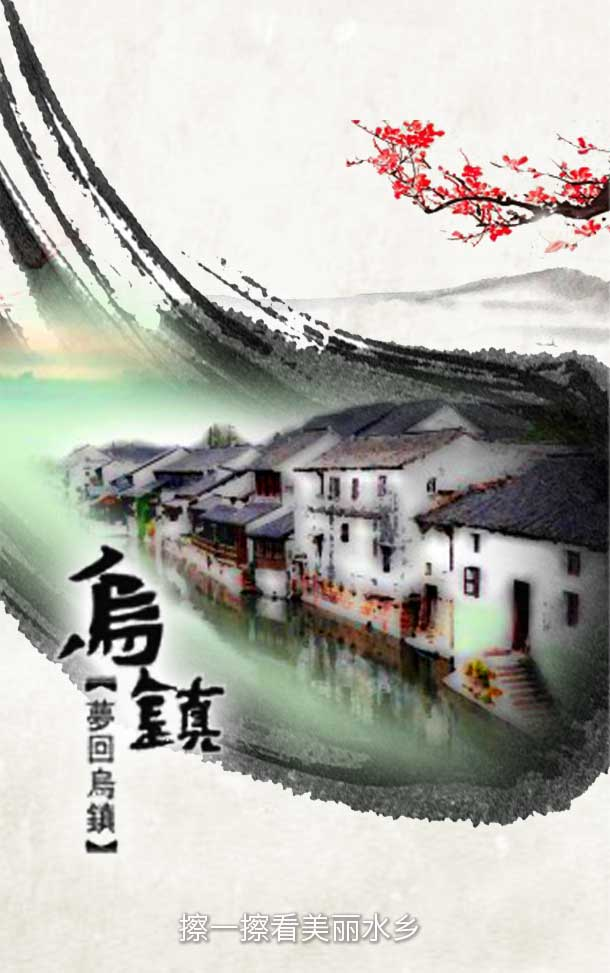
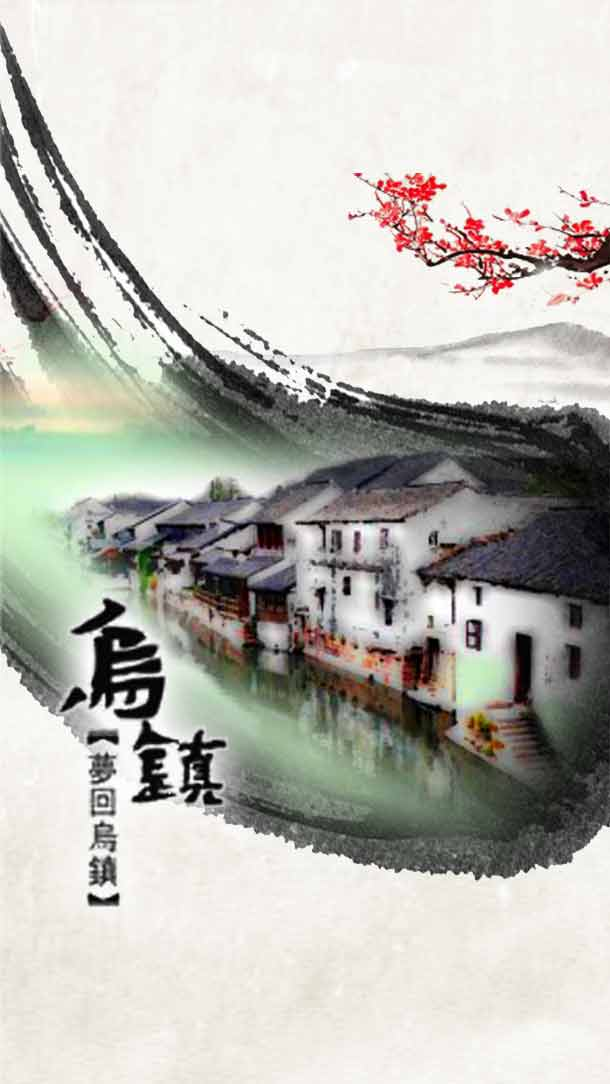
add hint
Use CSS3 infinite animation; fix issue; update the stay cover;

diff --git a/css/style.css b/css/style.css
@@ -1,1 +1,1 @@
-body,ul{margin:0;padding:0}body{background:#f6f6f6}hr{border-color:#ccc;color:#ccc}.container{width:95%;margin:auto}.video-thumb{margin-bottom:15px;width:100%;min-height:140px;background:seagreen;position:relative;padding:0}.video-thumb .ui-icon-video{position:absolute;left:50%;top:50px;margin:10px -15px}.flat-card-list .flat-card{background:#fff;-webkit-box-shadow:0 0 8px #999;-moz-box-shadow:0 0 8px #999;box-shadow:0 0 8px #999;padding:15px;margin-bottom:15px}.flat-card-list .flat-card .name{margin:0 0 5px;color:#666}.flat-card-list .flat-card .des{font-size:12px;color:#999;margin:5px 0}.thumb-list .thumb-item{padding:5px 0;margin:0;clear:both}.thumb-list .thumb-item .thumbnail{width:20%;float:left}.thumb-list .thumb-item .info{padding:5px 2%;float:left;width:50%}.thumb-list .thumb-item .info .title{color:deepskyblue;font-size:14px;margin:0 0 3px}.thumb-list .thumb-item .info .location,.thumb-list .thumb-item .info .comment,.thumb-list .thumb-item .info .des{color:#999;font-size:10px;margin:2px 0}.thumb-list .thumb-item .price{float:left;width:23%;text-align:right}.thumb-list .thumb-item .price .number{font-size:30px;color:darkred}.thumb-list .thumb-item .price .appendix{font-size:10px;color:gray}.thumb-list .thumb-item .price .addon{font-size:10px;color:forestgreen}.nav-dot{opacity:0;-webkit-transition:all 1s;-moz-transition:all 1s;-o-transition:all 1s;-ms-transition:all 1s;transition:all 1s}.nav-dot.active{opacity:1;-webkit-transform:scale(1);-moz-transform:scale(1);-ms-transform:scale(1);-o-transform:scale(1);transform:scale(1)}.nav-center{opacity:0;-webkit-transition:all 1s;-moz-transition:all 1s;-o-transition:all 1s;-ms-transition:all 1s;transition:all 1s;-webkit-transform:scale(1.2);-moz-transform:scale(1.2);-ms-transform:scale(1.2);-o-transform:scale(1.2);transform:scale(1.2)}.nav-center.active{opacity:1;-webkit-transform:scale(1);-moz-transform:scale(1);-ms-transform:scale(1);-o-transform:scale(1);transform:scale(1)}.place{margin-bottom:12%}.buy-button-div{float:right;margin-right:10%;margin-top:-4%;margin-bottom:4%}.buy-button,.buy-button:hover,.buy-button:visited,.buy-button:active{font-family:"华文仿宋","宋体",serif;font-size:1em;color:white!important;font-weight:normal!important;background-color:black;width:200px;height:50px;padding:8px 30px;text-decoration:none;text-shadow:none;border-radius:25px;z-index:999}.buy-button:hover{cursor:pointer}.master,.master-img{background:#f6f6f6 center no-repeat;position:absolute;top:0;bottom:0;left:0;right:0;height:100%}.master-img{background-size:100% auto;display:none}.cover,.cover-static{position:absolute;top:0;right:0;left:0;bottom:0;background:0;background-size:100px 100px}.stay-nav-wrapper{position:absolute;bottom:0;left:0;right:0;height:110px;width:100%;margin-left:10px;clear:both}.stay-nav-wrapper .stay-nav{-webkit-transition:margin-top .5s;-moz-transition:margin-top .5s;-o-transition:margin-top .5s;-ms-transition:margin-top .5s;transition:margin-top .5s;margin-top:110px;float:left;width:25%;height:110px;display:block;background-size:400% auto!important;background-repeat:no-repeat!important}.stay-nav-wrapper .stay-nav.shown{margin-top:0}#toolBackTo{position:fixed;left:13%;bottom:20px;width:50px;height:75px;z-index:11}#toolBackTo a{display:block;width:50px;height:50px;text-align:center;background-color:#a4aab4;background-color:rgba(164,170,180,0.5);background-position:16px 19px;border-radius:2px}#toolBackTo .home-back{text-decoration:none;font-weight:normal;text-shadow:none;background-image:none;padding-top:4px;height:21px;color:white;letter-spacing:2px;margin-top:1px;text-align:center;position:absolute;top:50px}.taste-bubble-wrapper{position:absolute;top:0;left:0;right:0;bottom:0;width:100%;height:100%}.taste-bubble-wrapper .taste-bubble{opacity:0;display:block;color:#fff;background:red;padding:15px 5px;width:50px;height:30px;text-decoration:none;font-size:12px;line-height:34px;text-align:center;-webkit-border-radius:40px;-moz-border-radius:40px;border-radius:40px;-webkit-transition:all 1s;-moz-transition:all 1s;-o-transition:all 1s;-ms-transition:all 1s;transition:all 1s;-webkit-transform:scale(3.2);-moz-transform:scale(3.2);-ms-transform:scale(3.2);-o-transform:scale(3.2);transform:scale(3.2)}.taste-bubble-wrapper .taste-bubble.shown{opacity:1;-webkit-transform:scale(1);-moz-transform:scale(1);-ms-transform:scale(1);-o-transform:scale(1);transform:scale(1)}.taste-bubble-wrapper .taste-bubble.shown-bg{opacity:1;-webkit-transform:scale(1);-moz-transform:scale(1);-ms-transform:scale(1);-o-transform:scale(1);transform:scale(1)}.taste-bubble-wrapper .taste-bubble.shown-md{opacity:1;-webkit-transform:scale(0.8);-moz-transform:scale(0.8);-ms-transform:scale(0.8);-o-transform:scale(0.8);transform:scale(0.8)}.taste-bubble-wrapper .taste-bubble.shown-sm{opacity:1;-webkit-transform:scale(0.65);-moz-transform:scale(0.65);-ms-transform:scale(0.65);-o-transform:scale(0.65);transform:scale(0.65)}#item-list,#banner{padding:0;margin:0;width:100%;position:relative}#item-list .img-item{width:23.75%}
+body,ul{margin:0;padding:0}body{background:#f6f6f6}hr{border-color:#ccc;color:#ccc}.container{width:95%;margin:auto}.video-thumb{margin-bottom:15px;width:100%;min-height:140px;background:seagreen;position:relative;padding:0}.video-thumb .ui-icon-video{position:absolute;left:50%;top:50px;margin:10px -15px}.flat-card-list .flat-card{background:#fff;-webkit-box-shadow:0 0 8px #999;-moz-box-shadow:0 0 8px #999;box-shadow:0 0 8px #999;padding:15px;margin-bottom:15px}.flat-card-list .flat-card .name{margin:0 0 5px;color:#666}.flat-card-list .flat-card .des{font-size:12px;color:#999;margin:5px 0}.thumb-list .thumb-item{padding:5px 0;margin:0;clear:both}.thumb-list .thumb-item .thumbnail{width:20%;float:left}.thumb-list .thumb-item .info{padding:5px 2%;float:left;width:50%}.thumb-list .thumb-item .info .title{color:deepskyblue;font-size:14px;margin:0 0 3px}.thumb-list .thumb-item .info .location,.thumb-list .thumb-item .info .comment,.thumb-list .thumb-item .info .des{color:#999;font-size:10px;margin:2px 0}.thumb-list .thumb-item .price{float:left;width:23%;text-align:right}.thumb-list .thumb-item .price .number{font-size:30px;color:darkred}.thumb-list .thumb-item .price .appendix{font-size:10px;color:gray}.thumb-list .thumb-item .price .addon{font-size:10px;color:forestgreen}.nav-dot{opacity:0;-webkit-transition:all 1s;-moz-transition:all 1s;-o-transition:all 1s;-ms-transition:all 1s;transition:all 1s}.nav-dot.active{opacity:1;-webkit-transform:scale(1);-moz-transform:scale(1);-ms-transform:scale(1);-o-transform:scale(1);transform:scale(1)}.nav-center{opacity:0;-webkit-transition:all 1s;-moz-transition:all 1s;-o-transition:all 1s;-ms-transition:all 1s;transition:all 1s;-webkit-transform:scale(1.2);-moz-transform:scale(1.2);-ms-transform:scale(1.2);-o-transform:scale(1.2);transform:scale(1.2)}.nav-center.active{opacity:1;-webkit-transform:scale(1);-moz-transform:scale(1);-ms-transform:scale(1);-o-transform:scale(1);transform:scale(1)}.place{margin-bottom:12%}.buy-button-div{float:right;margin-right:10%;margin-top:-4%;margin-bottom:4%}.buy-button,.buy-button:hover,.buy-button:visited,.buy-button:active{font-family:"华文仿宋","宋体",serif;font-size:1em;color:white!important;font-weight:normal!important;background-color:black;width:200px;height:50px;padding:8px 30px;text-decoration:none;text-shadow:none;border-radius:25px;z-index:999}.buy-button:hover{cursor:pointer}.master,.master-img{background:#f6f6f6 center no-repeat;position:absolute;top:0;bottom:0;left:0;right:0;height:100%}.master-img{background-size:100% auto;display:none}.cover,.cover-static{position:absolute;top:0;right:0;left:0;bottom:0;background:0;background-size:100px 100px}.stay-nav-wrapper{position:absolute;bottom:0;left:0;right:0;height:110px;width:100%;margin-left:10px;clear:both}.stay-nav-wrapper .stay-nav{-webkit-transition:margin-top .5s;-moz-transition:margin-top .5s;-o-transition:margin-top .5s;-ms-transition:margin-top .5s;transition:margin-top .5s;margin-top:110px;float:left;width:25%;height:110px;display:block;background-size:400% auto!important;background-repeat:no-repeat!important}.stay-nav-wrapper .stay-nav.shown{margin-top:0}#toolBackTo{position:fixed;left:13%;bottom:20px;width:50px;height:75px;z-index:11}#toolBackTo a{display:block;width:50px;height:50px;text-align:center;background-color:#a4aab4;background-color:rgba(164,170,180,0.5);background-position:16px 19px;border-radius:2px}#toolBackTo .home-back{text-decoration:none;font-weight:normal;text-shadow:none;background-image:none;padding-top:4px;height:21px;color:white;letter-spacing:2px;margin-top:1px;text-align:center;position:absolute;top:50px}.taste-bubble-wrapper{position:absolute;top:0;left:0;right:0;bottom:0;width:100%;height:100%}.taste-bubble-wrapper .taste-bubble{opacity:0;display:block;color:#fff;background:red;padding:15px 5px;width:50px;height:30px;text-decoration:none;font-size:12px;line-height:34px;text-align:center;-webkit-border-radius:40px;-moz-border-radius:40px;border-radius:40px;-webkit-transition:all 1s;-moz-transition:all 1s;-o-transition:all 1s;-ms-transition:all 1s;transition:all 1s;-webkit-transform:scale(3.2);-moz-transform:scale(3.2);-ms-transform:scale(3.2);-o-transform:scale(3.2);transform:scale(3.2)}.taste-bubble-wrapper .taste-bubble.shown{opacity:1;-webkit-transform:scale(1);-moz-transform:scale(1);-ms-transform:scale(1);-o-transform:scale(1);transform:scale(1)}.taste-bubble-wrapper .taste-bubble.shown-bg{opacity:1;-webkit-transform:scale(1);-moz-transform:scale(1);-ms-transform:scale(1);-o-transform:scale(1);transform:scale(1)}.taste-bubble-wrapper .taste-bubble.shown-md{opacity:1;-webkit-transform:scale(0.8);-moz-transform:scale(0.8);-ms-transform:scale(0.8);-o-transform:scale(0.8);transform:scale(0.8)}.taste-bubble-wrapper .taste-bubble.shown-sm{opacity:1;-webkit-transform:scale(0.65);-moz-transform:scale(0.65);-ms-transform:scale(0.65);-o-transform:scale(0.65);transform:scale(0.65)}#item-list,#banner{padding:0;margin:0;width:100%;position:relative}#item-list .img-item{width:23.75%}@keyframes blink{0%{opacity:1}100%{opacity:0}}@-moz-keyframes blink{0%{opacity:1}100%{opacity:0}}@-khtml-keyframes blink{0%{opacity:1}100%{opacity:0}}@-webkit-keyframes blink{0%{opacity:1}100%{opacity:0}}@-o-keyframes blink{0%{opacity:1}100%{opacity:0}}@-ms-keyframes blink{0%{opacity:1}100%{opacity:0}}#hint{font-size:1.2em;color:white;padding-top:50%;font-family:'Microsoft Yahei',sans-serif;-webkit-animation-name:'blink';-moz-animation-name:'blink';-o-animation-name:'blink';animation-name:'blink';-webkit-animation-duration:1.2s;-moz-animation-duration:1.2s;-o-animation-duration:1.2s;animation-duration:1.2s;-webkit-animation-timing-function:ease-in-out;-moz-animation-timing-function:ease-in-out;-o-animation-timing-function:ease-in-out;animation-timing-function:ease-in-out;-webkit-animation-delay:0s;-moz-animation-delay:0s;-o-animation-delay:0s;animation-delay:0s;-webkit-animation-iteration-count:infinite;-moz-animation-iteration-count:infinite;-o-animation-iteration-count:infinite;animation-iteration-count:infinite;-webkit-animation-direction:alternate;-moz-animation-direction:alternate;-o-animation-direction:alternate;animation-direction:alternate}#hint .g-hint{text-shadow:0 0 10px #000}

diff --git a/css/style.less b/css/style.less
@@ -305,3 +305,95 @@ hr {
     width: 23.75%;
   }
 }
+
+.use-animation2(@name, @duration, @count, @delay: 0s, @timing-function: ease-in-out, @direction: alternate) {
+  -webkit-animation-name: @name;
+  -moz-animation-name: @name;
+  -o-animation-name: @name;
+  animation-name: @name;
+  -webkit-animation-duration: @duration;
+  -moz-animation-duration: @duration;
+  -o-animation-duration: @duration;
+  animation-duration: @duration;
+  -webkit-animation-timing-function: @timing-function;
+  -moz-animation-timing-function: @timing-function;
+  -o-animation-timing-function: @timing-function;
+  animation-timing-function: @timing-function;
+  -webkit-animation-delay: @delay;
+  -moz-animation-delay: @delay;
+  -o-animation-delay: @delay;
+  animation-delay: @delay;
+  -webkit-animation-iteration-count: @count;
+  -moz-animation-iteration-count: @count;
+  -o-animation-iteration-count: @count;
+  animation-iteration-count: @count;
+  -webkit-animation-direction: @direction;
+  -moz-animation-direction: @direction;
+  -o-animation-direction: @direction;
+  animation-direction: @direction;
+}
+
+@keyframes blink {
+  0% {
+    opacity: 1;
+  }
+  100% {
+    opacity: 0;
+  }
+}
+
+@-moz-keyframes blink {
+  0% {
+    opacity: 1;
+  }
+  100% {
+    opacity: 0;
+  }
+}
+
+@-khtml-keyframes blink {
+  0% {
+    opacity: 1;
+  }
+  100% {
+    opacity: 0;
+  }
+}
+
+@-webkit-keyframes blink {
+  0% {
+    opacity: 1;
+  }
+  100% {
+    opacity: 0;
+  }
+}
+
+@-o-keyframes blink {
+  0% {
+    opacity: 1;
+  }
+  100% {
+    opacity: 0;
+  }
+}
+
+@-ms-keyframes blink {
+  0% {
+    opacity: 1;
+  }
+  100% {
+    opacity: 0;
+  }
+}
+
+#hint {
+  font-size: 1.2em;
+  color: white;
+  padding-top: 50%;
+  font-family: 'Microsoft Yahei', sans-serif;
+  .use-animation2('blink', 1.2s, infinite);
+  .g-hint {
+    text-shadow: 0 0 10px #000;
+  }
+}

diff --git a/application/views/stay/index.php b/application/views/stay/index.php
@@ -14,7 +14,6 @@
         background-size: 100% 100%;
         backface-visibility: hidden;
         overflow: hidden;
-        z-index: 100000;
     }
 
     #cas {
@@ -23,7 +22,7 @@
     }
 </style>
 <div class="cover"
-     style="background: url('<?= base_url('img/stay/stay_cover.jpg') ?>') center; background-size: 100% auto; overflow: hidden">
+     style="display: none; background: url('<?= base_url('img/stay/stay_cover.jpg') ?>') center; background-size: 100% auto; overflow: hidden">
     <div>
         <img src="<?= base_url('img/stay/stay_logo.png') ?>" alt="" style="width: 40%; margin: 20px 15px;"/>
         <a href="<?= site_url('home') ?>">
@@ -46,8 +45,14 @@
 <div class="box" id="bb">
     <canvas id="cas" width="300" height="400"></canvas>
 </div>
+<div id="hint" style="padding-top: 0 !important;">
+    <center>
+        <p class="g-hint">
+            擦一擦看美丽水乡
+        </p>
+    </center>
+</div>
 <script type="text/javascript">
-//    setTimeout(enter_scene, 6000);
     if (!$.stayImg) {
         $.stayImg = new Image();
     }
@@ -57,11 +62,10 @@
     canvas.height = document.getElementById("bb").clientHeight;
 
     $.stayImg.onload = function () {
-        console.log('OK');
         ctx.drawImage($.stayImg, 0, 0, canvas.width, canvas.height);
+        $('.cover').fadeIn(200);
         tapClip();
     };
-//    ctx.drawImage($.stayImg, 0, 0, canvas.width, canvas.height);
     $.stayImg.src = "<?= base_url('img/stay/stay_cover2.jpg') ?>";
 
     function enter_scene() {
@@ -74,6 +78,7 @@
                 itm.addClass('shown')
             }
         });
+        $('#hint').fadeOut(250);
         $('.cover').fadeIn(300);
     }
 
@@ -117,7 +122,7 @@
                             }
                         }
                     }
-                    if (dd / (imgData.width * imgData.height / (jiange * jiange)) < 0.35) {
+                    if (dd / (imgData.width * imgData.height / (jiange * jiange)) < 0.7) {
                         enter_scene()
                     }
                 }, totimes)
@@ -176,7 +181,7 @@
                             }
                         }
                     }
-                    if (dd / (imgData.width * imgData.height / (jiange * jiange)) < 0.35) {
+                    if (dd / (imgData.width * imgData.height / (jiange * jiange)) < 0.7) {
                         enter_scene()
                     }
                 }, totimes)

diff --git a/application/views/travel/index.php b/application/views/travel/index.php
@@ -6,7 +6,7 @@
     </div>
 </div>
 <div class="cover" style="background: url('<?= base_url('img/travel-cover.jpg') ?>') center no-repeat; background-size: 100% auto">
-<div id="hint" style="display:none"> <center> <p style="font-size: 1.2em; color: green; text-shadow: 5px 5px 5px #FFF; padding-top: 70%; font-family:'Microsoft Yahei';">晃动手机，摇曳西塘垂杨柳</p> </center> </div>
+<div id="hint" style="padding-top: 0;"> <center> <p class="g-hint">晃动手机，摇曳西塘垂杨柳</p> </center> </div>
 </div>
 <script type="text/javascript">
     if (window.DeviceMotionEvent) {
@@ -16,7 +16,8 @@
     var cover = $('.cover').on('click', function () {
         $(this).fadeOut(500, function() {
             cover.remove();
-        })
+        });
+        $('#hint').fadeOut(250);
     });
 
     var SHAKE_THRESHOLD = 1000;
@@ -43,10 +44,5 @@
             last_y = y;
             last_z = z;
         }
-    }
-
-    for (var i = 1; i <= 6; i++) {
-        $("#hint").fadeIn(1000);
-        $("#hint").fadeOut(4000);
     }
  </script>

diff --git a/application/views/taste/index.php b/application/views/taste/index.php
@@ -24,9 +24,9 @@
     </div>
 </div>
 <div class="cover" id="taste-cover" style="background: url('<?= base_url('img/taste/taste_cover.jpg') ?>') #f6f6f6 center no-repeat; background-size: 100% auto;">
-<div id="hint" style="display:none"> 
+<div id="hint">
 <center> 
-<p style="font-size: 1.2em; color: white;  padding-top: 70%; font-family:'Microsoft Yahei';">
+<p class="g-hint">
 点击屏幕进入吃货地图
 </p> 
 </center> 
@@ -34,10 +34,6 @@
 </div>
 <script>
     $('body').css('overflow', 'hidden');
-    for (var i = 1; i <= 6; i++) {
-        $("#hint").fadeIn(1000);
-        $("#hint").fadeOut(4000);
-    }
     $('.cover').on('click', function (){
         $(this).fadeOut(500);
         var bubbleL = $('.taste-bubble');
@@ -47,7 +43,7 @@
             bubble.addClass('shown-' + bubble.data('size'))
         }
 
-        $('#hint').hide();
+        $('#hint').fadeOut(250);
         $('body').css('overflow', 'scroll');
     });
 </script>

diff --git a/application/views/play/index.php b/application/views/play/index.php
@@ -22,21 +22,17 @@
     </div>
 </div>
 <div class="cover" style="position: absolute; top: 0; right: 0; left: 0; bottom: 0; background: url('<?= base_url('img/play/play_cover.jpg') ?>') #f6f6f6 center no-repeat; background-size: 100% auto;">
-<div id="hint" style="display:none"> 
+<div id="hint" style="padding-top: 0;">
 <center> 
-<p style="font-size: 1.2em; color: purple;  padding-top: 70%; font-family:'Microsoft Yahei';">
+<p class="g-hint">
 点击屏幕跳过动画
 </p> 
 </center> 
 </div>
 </div>
 <script>
-    for (var i = 1; i <= 6; i++) {
-        $("#hint").fadeIn(1000);
-        $("#hint").fadeOut(4000);
-    }
     $('.cover').on('click', function (){
-        $("#hint").hide();
         $(this).fadeOut(500);
+        $('#hint').fadeOut(250);
     });
 </script>

diff --git a/application/views/buy/index.php b/application/views/buy/index.php
@@ -42,8 +42,16 @@
          style="background: url('<?= base_url('img/hand.png') ?>') no-repeat; background-size: 30px 30px; height: 30px; width: 30px; position: absolute; top: 45%; left: 50%;">
     </div>
 </div>
+<div id="hint" style="padding-top: 0;">
+    <center>
+        <p class="g-hint">
+            点击屏幕跳过动画
+        </p>
+    </center>
+</div>
 <script>
     $('.cover').on('click', function () {
         $(this).fadeOut(500);
+        $('#hint').fadeOut(250);
     });
 </script>
